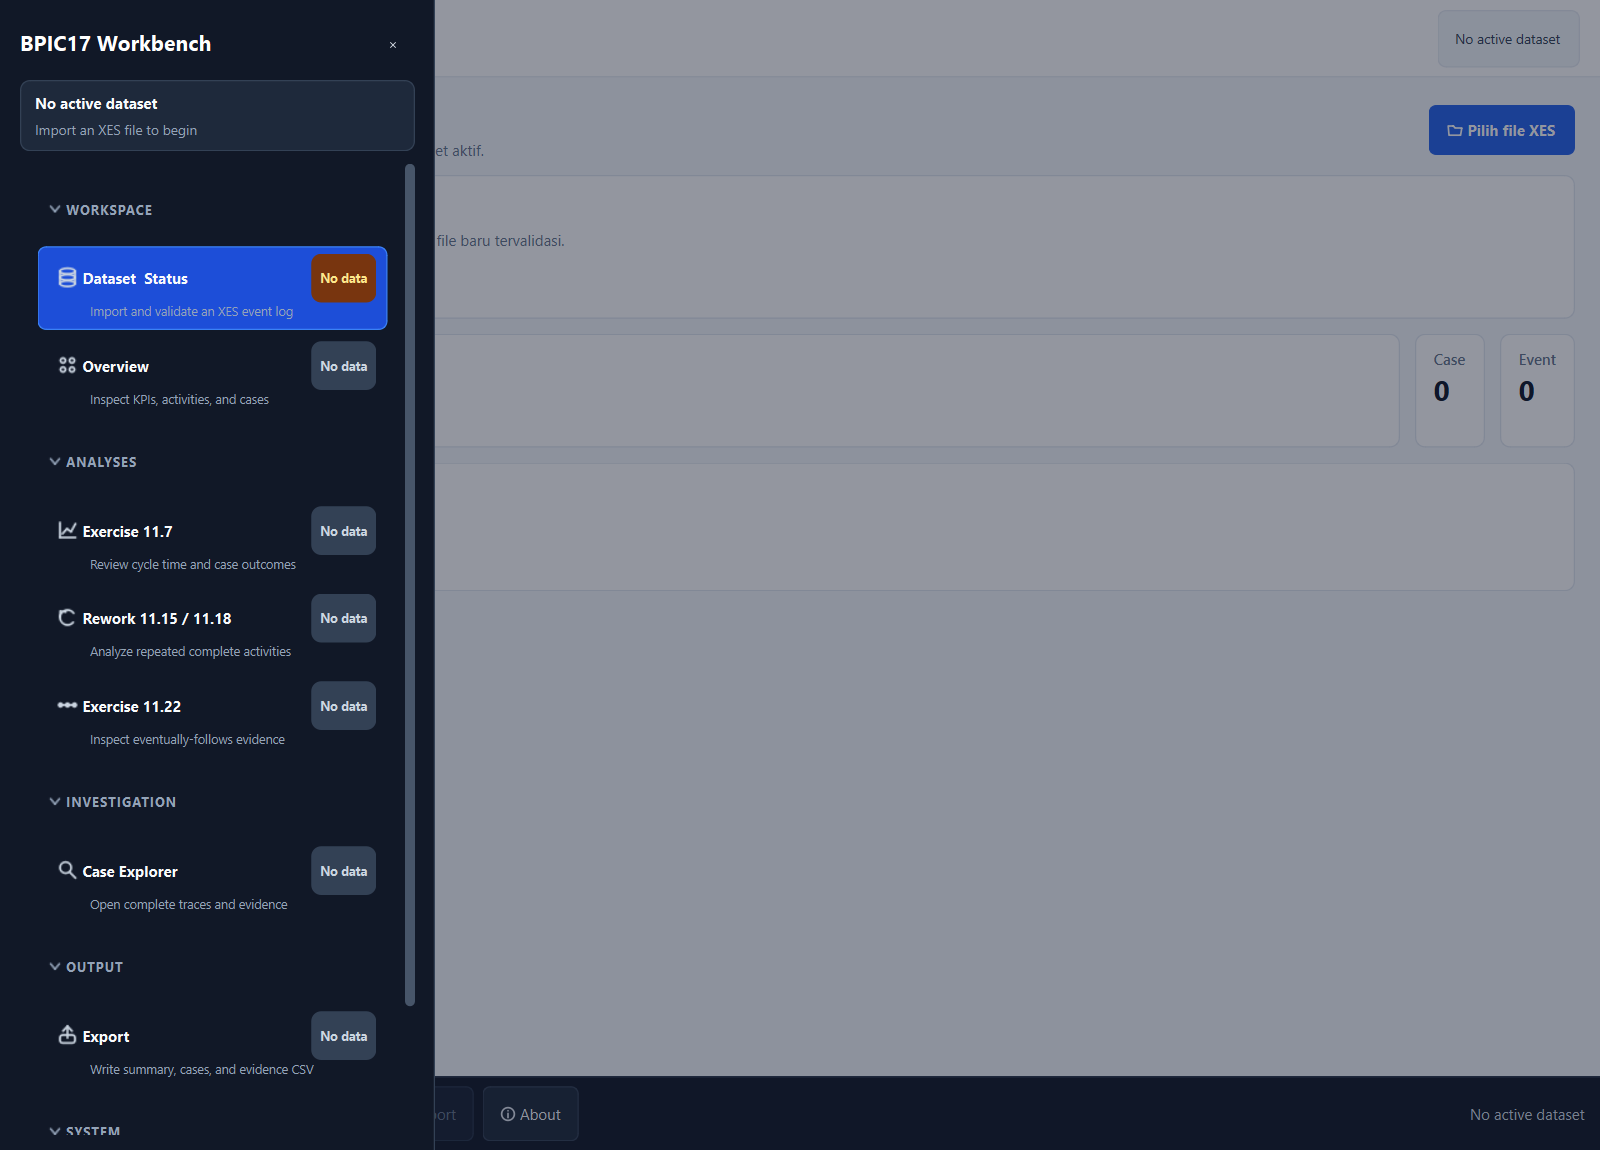
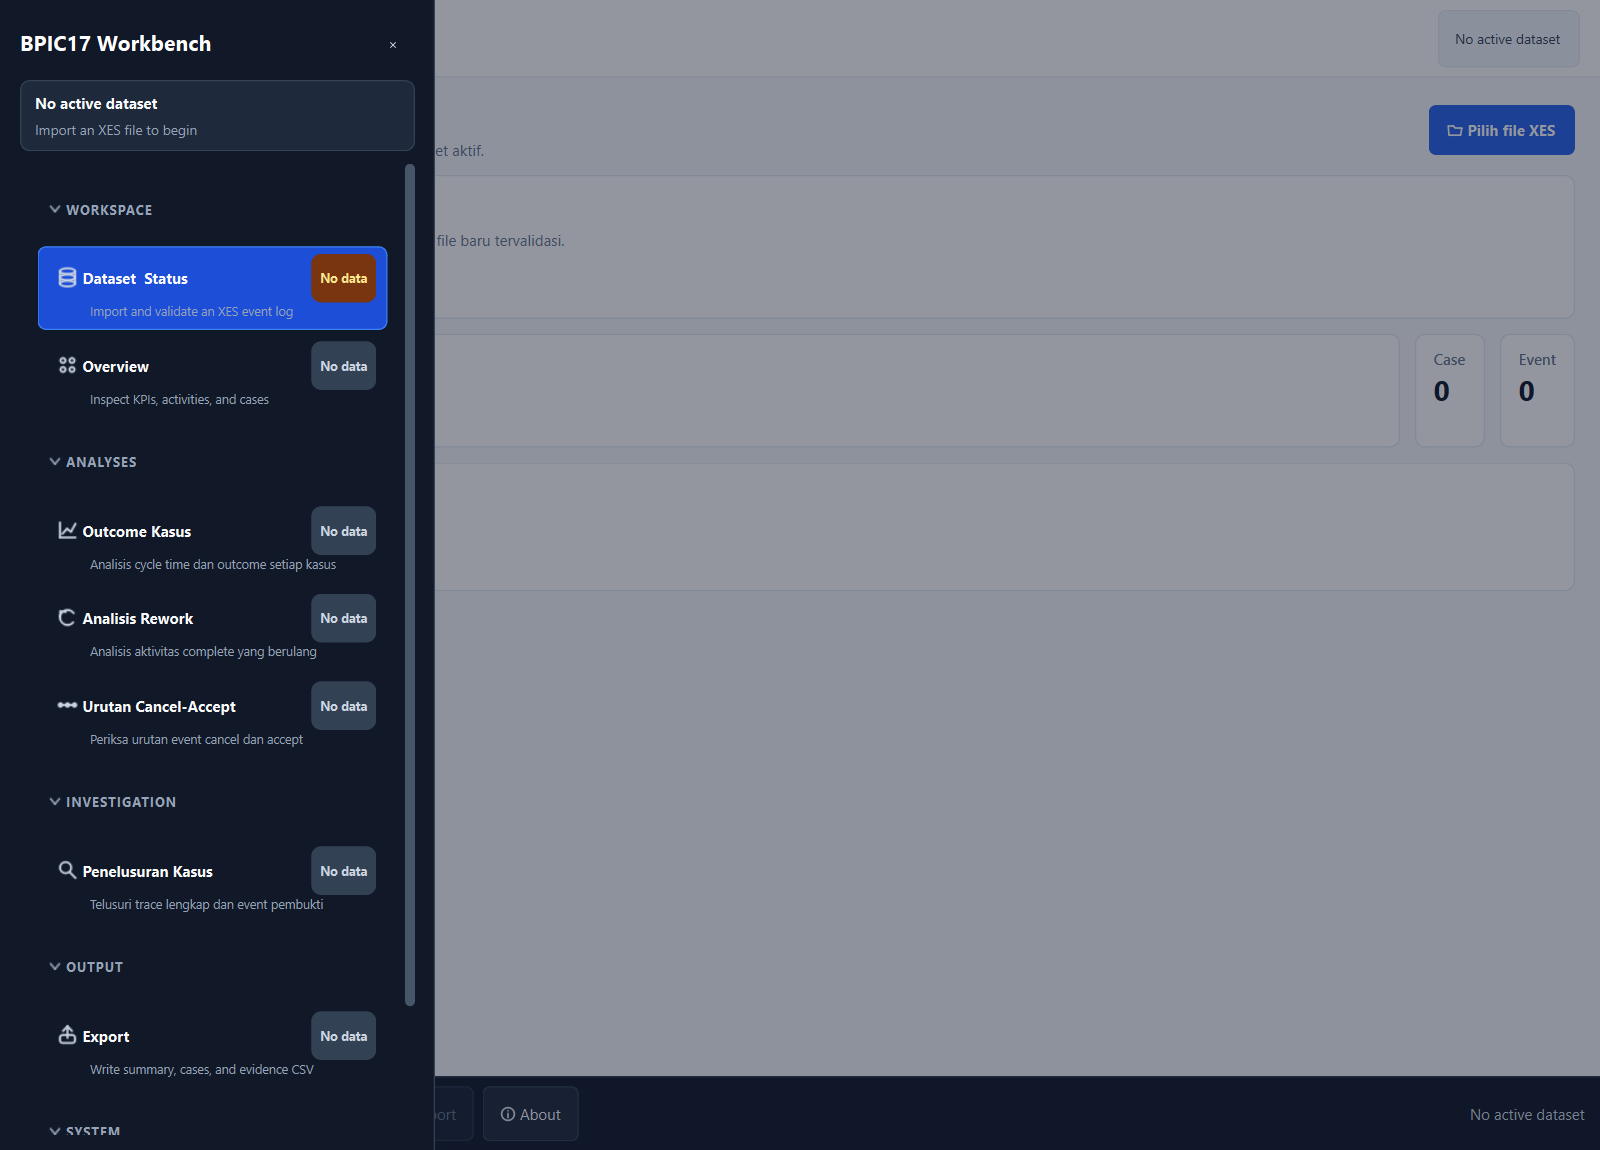
docs(analysis): replace exercise terminology with analysis functions

Changed region(s): [[0.0625, 0.4565, 0.2188, 0.5783], [0.0625, 0.6087, 0.1875, 0.6696], [0.0625, 0.7304, 0.1875, 0.7913]]

diff --git a/USERFLOW.md b/USERFLOW.md
@@ -4,7 +4,7 @@
 
 Dokumen ini menjelaskan alur pengguna dan perubahan state aplikasi mulai dari membuka aplikasi, mengimpor XES, menjalankan delapan analisis, menelusuri evidence, hingga mengekspor CSV.
 
-Aktor utama adalah pengguna yang memiliki event log XES lokal dan ingin menjalankan analisis BPIC17 tanpa menyunting kode atau membaca ulang dataset untuk setiap exercise.
+Aktor utama adalah pengguna yang memiliki event log XES lokal dan ingin menjalankan analisis BPIC17 tanpa menyunting kode atau membaca ulang dataset untuk setiap analisis.
 
 ## 2. Titik masuk dan prasyarat
 
@@ -24,9 +24,9 @@ Saat aplikasi dibuka, delapan workspace tersedia melalui navigation drawer overl
 
 1. Dataset & Status
 2. Overview
-3. Exercise 11.7
-4. Rework 11.15 & 11.18
-5. Exercise 11.22
+3. Outcome Kasus
+4. Analisis Rework
+5. Urutan Cancel-Accept
 6. Case Explorer
 7. Export
 8. About
@@ -60,17 +60,17 @@ flowchart TD
         InspectOverview --> OverviewCase["Kontrol: pilih case lalu Buka di Case Explorer"]
     end
 
-    subgraph Exercise117Area["Sidebar / ANALYSES: Exercise 11.7"]
-        Store --> Nav117["Navigasi: pilih Exercise 11.7"]
-        Nav117 --> Run117["Kontrol: Jalankan 11.7 A-E"]
+    subgraph OutcomeArea["Sidebar / ANALYSES: Outcome Kasus"]
+        Store --> Nav117["Navigasi: pilih Outcome Kasus"]
+        Nav117 --> Run117["Kontrol: Jalankan Analisis"]
         Run117 --> View117["Panel: pilih hasil, cari case, periksa rule"]
         View117 --> Open117["Kontrol: Buka kasus"]
     end
 
-    subgraph ReworkArea["Sidebar / ANALYSES: Rework 11.15 & 11.18"]
+    subgraph ReworkArea["Sidebar / ANALYSES: Analisis Rework"]
         Store --> ReworkDecision{"Target fraud tepat satu?"}
         ReworkDecision -- Ya --> ReworkAuto["Sistem: jalankan 11.15 dan 11.18 otomatis"]
-        ReworkDecision -- Tidak --> NavRework["Navigasi: pilih Rework 11.15 & 11.18"]
+        ReworkDecision -- Tidak --> NavRework["Navigasi: pilih Analisis Rework"]
         NavRework --> ReworkManual["Kontrol: pilih/ketik aktivitas target dan lifecycle"]
         ReworkManual --> RunRework["Kontrol: Jalankan / jalankan ulang"]
         ReworkAuto --> ViewRework["Panel: pilih case dan evidence"]
@@ -78,9 +78,9 @@ flowchart TD
         ViewRework --> OpenRework["Kontrol: Buka di Case Explorer"]
     end
 
-    subgraph Exercise1122Area["Sidebar / ANALYSES: Exercise 11.22"]
-        Store --> Nav1122["Navigasi: pilih Exercise 11.22"]
-        Nav1122 --> Run1122["Kontrol: Jalankan 11.22"]
+    subgraph SequenceArea["Sidebar / ANALYSES: Urutan Cancel-Accept"]
+        Store --> Nav1122["Navigasi: pilih Urutan Cancel-Accept"]
+        Nav1122 --> Run1122["Kontrol: Jalankan Analisis"]
         Run1122 --> View1122["Panel: cari dan pilih pasangan cancel-accept"]
         View1122 --> Open1122["Kontrol: Buka di Case Explorer"]
     end
@@ -153,9 +153,9 @@ flowchart TD
 |---|---|---|
 | Memilih atau mengganti XES | Tombol menu > drawer `Dataset & Status` atau action bar `Import XES` | `Pilih file XES` |
 | Memeriksa KPI dan daftar case | Tombol menu > drawer `Overview` | Cari/pilih case, lalu `Buka di Case Explorer` |
-| Menjalankan 11.7 A–E | Tombol menu > drawer `Exercise 11.7` | `Jalankan 11.7 A-E`, pilih hasil, lalu `Buka kasus` |
-| Menjalankan 11.15/11.18 | Tombol menu > drawer `Rework 11.15 & 11.18` | Pilih aktivitas/lifecycle, lalu `Jalankan analisis` |
-| Menjalankan 11.22 | Tombol menu > drawer `Exercise 11.22` | `Jalankan 11.22`, pilih pasangan, lalu `Buka di Case Explorer` |
+| Menganalisis outcome kasus | Tombol menu > drawer `Outcome Kasus` | `Jalankan Analisis`, pilih hasil, lalu `Buka kasus` |
+| Menganalisis rework | Tombol menu > drawer `Analisis Rework` | Pilih aktivitas/lifecycle, lalu `Jalankan analisis` |
+| Menganalisis urutan cancel-accept | Tombol menu > drawer `Urutan Cancel-Accept` | `Jalankan Analisis`, pilih pasangan, lalu `Buka di Case Explorer` |
 | Menelusuri trace secara langsung | Tombol menu > drawer `Case Explorer` | Ketik atau pilih case ID |
 | Mengekspor hasil | Tombol menu > drawer `Export` atau action bar `Export` | `Pilih direktori`, lalu `Export CSV` |
 | Menghapus hasil tanpa membuang dataset | Action bar `Reset` atau halaman Export | `Reset hasil analisis` |
@@ -169,7 +169,7 @@ flowchart TD
 | `Ctrl+B` | Buka atau tutup navigation drawer |
 | `Escape` | Tutup navigation drawer bila sedang terbuka |
 | `Ctrl+O` | Import XES |
-| `Ctrl+1` … `Ctrl+8` | Dataset, Overview, 11.7, Rework, 11.22, Explorer, Export, About |
+| `Ctrl+1` … `Ctrl+8` | Dataset, Overview, Outcome, Rework, Urutan Event, Explorer, Export, About |
 | `Alt+Left` / `Alt+Right` | Back / Forward pada navigation history |
 | `Ctrl+R` | Rerun seluruh analisis dari EventStore aktif |
 | `F1` | About |
@@ -184,7 +184,7 @@ flowchart TD
 4. Setelah file dipilih, aplikasi segera:
    - menaikkan generation ID;
    - menghapus referensi dataset sebelumnya;
-   - membersihkan Overview, hasil exercise, Case Explorer, Export, dan metadata About;
+   - membersihkan Overview, hasil analisis, Case Explorer, Export, dan metadata About;
    - menampilkan progress indeterminate;
    - menonaktifkan tombol pilih file selama job aktif.
 5. PM4Py membaca dan memvalidasi file di worker thread.
@@ -226,14 +226,14 @@ Overview berjalan otomatis setelah `EventStore` aktif dan menampilkan:
 - daftar durasi case;
 - metadata dan warning dataset.
 
-Pengguna dapat mencari case dan membukanya di Case Explorer. Pembukaan dari Overview tidak membawa highlight khusus karena Overview bukan filter evidence exercise.
+Pengguna dapat mencari case dan membukanya di Case Explorer. Pembukaan dari Overview tidak membawa highlight khusus karena Overview bukan filter evidence analisis.
 
-## 6. Exercise 11.7 A–E
+## 6. Outcome Kasus
 
-1. Pengguna membuka drawer lalu memilih `Exercise 11.7`, atau menekan `Ctrl+3`.
-2. Pengguna menekan `Jalankan 11.7 A-E`.
+1. Pengguna membuka drawer lalu memilih `Outcome Kasus`, atau menekan `Ctrl+3`.
+2. Pengguna menekan `Jalankan Analisis`.
 3. Lima hasil dihitung dari `EventStore` aktif di worker thread.
-4. Tabel menampilkan exercise, deskripsi, count, mean days, dan denominator.
+4. Tabel menampilkan kode analisis, metrik, count, mean days, dan denominator.
 5. Pengguna memilih salah satu hasil untuk melihat rule dan case IDs.
 6. Pengguna dapat mencari case, memilih satu baris, lalu menekan `Buka kasus`.
 7. Case Explorer dibuka dengan event evidence yang sesuai disorot.
@@ -246,7 +246,7 @@ Hasil yang dihasilkan:
 - 11.7 D: case yang mengandung `O_Refused`;
 - 11.7 E: case dengan event terakhir `O_Cancelled` menurut `_trace_pos`.
 
-## 7. Exercise 11.15 dan 11.18
+## 7. Analisis Rework
 
 Setelah dataset aktif, aplikasi mencari aktivitas yang memuat kata `fraud`.
 
@@ -271,10 +271,10 @@ Jika kandidat lebih dari satu atau tidak ada:
 
 Pengguna dapat memilih case dan membuka seluruh evidence terkait di Case Explorer.
 
-## 8. Exercise 11.22
+## 8. Urutan Cancel-Accept
 
-1. Pengguna membuka drawer lalu memilih `Exercise 11.22`, atau menekan `Ctrl+5`.
-2. Pengguna menekan `Jalankan 11.22`.
+1. Pengguna membuka drawer lalu memilih `Urutan Cancel-Accept`, atau menekan `Ctrl+5`.
+2. Pengguna menekan `Jalankan Analisis`.
 3. Aplikasi mencari case yang memiliki `O_Cancelled` di posisi `i` dan `O_Accepted` di posisi `j`, dengan `i < j`.
 4. Panel menampilkan count, denominator, percentage, rule, notes, dan satu pasangan evidence per case.
 5. Pengguna dapat mencari dan memilih pasangan evidence.
@@ -283,7 +283,7 @@ Pengguna dapat memilih case dan membuka seluruh evidence terkait di Case Explore
 
 ## 9. Case Explorer
 
-Case Explorer dapat dibuka langsung atau melalui action case dari Overview dan panel exercise.
+Case Explorer dapat dibuka langsung atau melalui action case dari Overview dan panel analisis.
 
 Alurnya:
 
@@ -303,21 +303,21 @@ Export memakai objek `AnalysisResult` yang sama dengan panel. Tidak ada perhitun
 ### Syarat tombol Export aktif
 
 - Dataset masih aktif.
-- Delapan exercise ID tersedia tepat satu kali:
+- Delapan kode analisis tersedia tepat satu kali:
   - 11.7 A–E;
   - 11.15;
   - 11.18;
   - 11.22.
 - Direktori output telah dipilih.
 
-Status `unavailable` tetap dianggap sebagai hasil exercise yang lengkap apabila memiliki exercise ID, denominator, status, dan alasan. Nilai tersebut diekspor sebagai unavailable, bukan diubah menjadi hasil nol valid.
+Status `unavailable` tetap dianggap sebagai hasil analisis yang lengkap apabila memiliki kode analisis, denominator, status, dan alasan. Nilai tersebut diekspor sebagai unavailable, bukan diubah menjadi hasil nol valid.
 
 ### Keluaran
 
 | File | Isi |
 |---|---|
-| `summary.csv` | Delapan exercise, rule, count, denominator, mean, percentage, status, dan notes |
-| `selected_cases.csv` | Exercise ID dan case ID terpilih |
+| `summary.csv` | Delapan analisis, rule, count, denominator, mean, percentage, status, dan notes |
+| `selected_cases.csv` | Kode analisis dan case ID terpilih |
 | `evidence.csv` | Union evidence columns, termasuk row ID, posisi, timestamp, lifecycle/resource, atau pasangan cancel–accept |
 
 Export berjalan di worker thread. Jika permission atau path bermasalah, hasil analisis tetap tersedia sehingga pengguna dapat memilih direktori lain dan mencoba kembali. Membatalkan dialog direktori tidak dianggap sebagai error dan tidak menghapus pilihan sebelumnya.

diff --git a/docs/laporan.md b/docs/laporan.md
@@ -19,21 +19,21 @@ Aplikasi ini bertujuan menyediakan alur desktop yang dapat direproduksi untuk me
 
 Diisi oleh A1. Jelaskan validasi atribut, urutan trace, EventStore, timezone, dan metadata.
 
-## 4. Exercise 11.7 A-E
+## 4. Outcome Kasus
 
 Diisi oleh A2. Sertakan formula cycle time, contains vs endpoint, hasil aktual, dan evidence case.
 
-## 5. Exercise 11.15 dan 11.18
+## 5. Analisis Rework
 
 Diisi oleh A3. Sertakan lifecycle complete, resource valid, hasil aktual, dan evidence event.
 
-## 6. Exercise 11.22 dan Case Explorer
+## 6. Urutan Cancel-Accept dan Case Explorer
 
 Diisi oleh A4. Sertakan eventually-follows, numerator/denominator, persentase, dan pasangan event `i < j`.
 
 ## 7. GUI, Export, dan Integrasi
 
-`MainWindow` menyatukan delapan area: Dataset & Status, Overview, Exercise 11.7, Rework 11.15/11.18, Exercise 11.22, Case Explorer, Export, dan About. Navigasi menggunakan full-height overlay drawer dengan backdrop, tombol close, `Escape`, shortcut, dan grup collapsible. Setiap panel memakai page hierarchy, card, metrik, tabel, pencarian, serta vector icon yang digambar Qt tanpa emoji atau ketergantungan font simbol. Satu `EventStore` aktif didistribusikan ke semua panel. Pergantian atau kegagalan dataset langsung menghapus hasil, evidence, metadata export, dan pilihan case sebelumnya.
+`MainWindow` menyatukan delapan area: Dataset & Status, Overview, Outcome Kasus, Analisis Rework, Urutan Cancel-Accept, Penelusuran Kasus, Export, dan About. Navigasi menggunakan full-height overlay drawer dengan backdrop, tombol close, `Escape`, shortcut, dan grup collapsible. Setiap panel memakai page hierarchy, card, metrik, tabel, pencarian, serta vector icon yang digambar Qt tanpa emoji atau ketergantungan font simbol. Satu `EventStore` aktif didistribusikan ke semua panel. Pergantian atau kegagalan dataset langsung menghapus hasil, evidence, metadata export, dan pilihan case sebelumnya.
 
 Pekerjaan import, analisis, serta export dijalankan oleh `WorkerManager` menggunakan `QObject` dan `QThread`. Callback result/error diteruskan kembali ke GUI thread. Setiap panel memakai generation ID sehingga hasil job lama tidak dapat masuk setelah reset atau dataset switch. Progress yang tidak memiliki ukuran numerik ditampilkan sebagai indikator indeterminate.
 
@@ -43,7 +43,7 @@ Reset menghapus hasil turunan dan Case Explorer tanpa menghapus `EventStore`. Re
 
 ## 8. Pengujian
 
-Pada 21 November 2026, seluruh suite terkini berjalan dua kali berturut-turut dengan hasil `148 passed, 1 warning`. Integration test memverifikasi import XES sintetis, Overview, delapan hasil, evidence Case Explorer, tiga CSV, reset, rerun tanpa parse ulang, invalid dataset reset, dan penolakan callback dataset lama. Navigation test memverifikasi overlay drawer, backdrop, close/Escape, grup collapsible, delapan workspace, history, shortcut, status badge, breadcrumb, dan global action bar. UI component test memverifikasi vector icon dan kontrak reusable card. Clean-install baseline A5 sebelum navigation shell pada virtual environment Python 3.13 baru menghasilkan `136 passed, 1 warning` dalam 12,70 detik.
+Pada 21 November 2026, seluruh suite terkini berjalan dengan hasil `149 passed, 1 warning`. Integration test memverifikasi import XES sintetis, Overview, delapan hasil, evidence Case Explorer, tiga CSV, reset, rerun tanpa parse ulang, invalid dataset reset, dan penolakan callback dataset lama. Navigation test memverifikasi overlay drawer, backdrop, close/Escape, grup collapsible, delapan workspace, history, shortcut, status badge, breadcrumb, dan global action bar. UI component test memverifikasi vector icon, kontrak reusable card, dan penggunaan terminologi analisis berbasis fungsi. Clean-install baseline A5 sebelum navigation shell pada virtual environment Python 3.13 baru menghasilkan `136 passed, 1 warning` dalam 12,70 detik.
 
 Warning berasal dari dependency opsional PM4Py `r4pm`; fallback `rustxes` tetap dapat membaca XES. Detail perintah dan batas verifikasi dicatat dalam `docs/qa_a5.md`. Pengujian terhadap BPIC17 asli belum dilakukan karena file tidak tersedia di repository.
 

diff --git a/docs/qa_a5.md b/docs/qa_a5.md
@@ -20,7 +20,7 @@
 | Export GUI + smoke | export panel, application smoke | 13 passed |
 | Workspace navigation dan UI components | overlay drawer, backdrop, Escape, collapsible groups, history, shortcuts, badges, cards, dan vector icons | 12 passed |
 | Integration | import → 8 hasil → evidence → CSV → reset/rerun | 2 passed, 1 warning |
-| Regression terkini | `python manage.py test -q` | 148 passed, 1 warning; dua run final berturut-turut 9,83 dan 9,10 detik |
+| Regression terkini | `python manage.py test -q` | 149 passed, 1 warning; run final 9,43 detik |
 | Clean install baseline A5 | venv Python 3.13 baru + `pip install -r requirements.txt` + full suite sebelum navigation shell | 136 passed, 1 warning; 12,70 detik |
 
 Warning tunggal berasal dari PM4Py karena `r4pm` tidak dipasang. Pesan PM4Py menyatakan `rustxes` tetap didukung sebagai fallback; import XES pada test berhasil.
@@ -31,7 +31,7 @@ Warning tunggal berasal dari PM4Py karena `r4pm` tidak dipasang. Pesan PM4Py men
 - Dataset switch membatalkan pengaruh callback loader lama.
 - Reset dan rerun mempertahankan identitas `EventStore` serta tidak memanggil parser ulang.
 - Invalid dataset menghapus Overview, hasil A2–A4, Explorer, Export, dan About metadata lama.
-- Export ditolak bila delapan hasil belum lengkap atau terdapat exercise duplikat.
+- Export ditolak bila delapan hasil belum lengkap atau terdapat kode analisis duplikat.
 - Status `unavailable` mengekspor reason dan denominator tanpa menampilkan count placeholder sebagai jawaban valid.
 - Direktori dengan spasi, cancel dialog, path bukan direktori, dan error permission sintetis ditangani.
 - Tiga CSV dibaca kembali dengan pandas dan evidence identifier tetap tersedia.
@@ -42,7 +42,7 @@ Warning tunggal berasal dari PM4Py karena `r4pm` tidak dipasang. Pesan PM4Py men
 
 ## Batas verifikasi dan handoff
 
-- File BPIC17 asli tidak ada di `data/`; angka delapan exercise, waktu import penuh, konsumsi memori, hash dataset, dan screenshot data asli belum diverifikasi.
+- File BPIC17 asli tidak ada di `data/`; angka delapan analisis, waktu import penuh, konsumsi memori, hash dataset, dan screenshot data asli belum diverifikasi.
 - Screenshot A5 menggunakan dataset sintetis dan harus diganti atau dilengkapi saat dataset final tersedia.
 - Review silang, rekaman demo, tag final, dan persetujuan jumlah lima anggota tetap memerlukan tindakan tim.
 - Sebelum distribusi, tim perlu meninjau kewajiban lisensi AGPL v3 PM4Py.

diff --git a/docs/pembagian_kontribusi.md b/docs/pembagian_kontribusi.md
@@ -5,8 +5,8 @@ Isi berdasarkan pekerjaan aktual, commit, test, screenshot, bagian laporan, dan 
 | Anggota | Source/fitur | Pengujian | Dokumentasi & screenshot | Review/demo | Bukti commit/PR |
 |---|---|---|---|---|---|
 | A1 | Loader PM4Py, EventStore, metadata, Overview, Dataset panel | Loader, contracts, overview, worker/import state | Screenshot import/Overview masih pending dataset asli | Reviewer silang/demo final pending | `7071929`, PR #6, perbaikan integrasi `28a82b4`/`cd029c3` |
-| A2 | Cycle time, Exercise 11.7 A–E, panel dan evidence case | Core 11.7 dan GUI panel | Bagian laporan/screenshot hasil asli masih pending | Reviewer silang/demo final pending | `a8db794`–`9c0439f`, PR #1, perbaikan `2ef782a` |
-| A3 | Exercise 11.15/11.18, lifecycle/resource evidence, panel | Core rework dan GUI panel | Bagian laporan/screenshot hasil asli masih pending | Reviewer silang/demo final pending | `31b34e0`, PR #2, perbaikan `e69ec1d`/`7a92c5b` |
-| A4 | Exercise 11.22, eventually-follows evidence, Case Explorer | Ordering, sequence panel, explorer | Bagian laporan/screenshot hasil asli masih pending | Reviewer silang/demo final pending | `97c8746`, PR #5, perbaikan integrasi `28a82b4` |
+| A2 | Cycle time, analisis outcome kasus, panel dan evidence case | Core outcome dan GUI panel | Bagian laporan/screenshot hasil asli masih pending | Reviewer silang/demo final pending | `a8db794`–`9c0439f`, PR #1, perbaikan `2ef782a` |
+| A3 | Analisis Repeated Complete dan Same Resource Complete, lifecycle/resource evidence, panel | Core rework dan GUI panel | Bagian laporan/screenshot hasil asli masih pending | Reviewer silang/demo final pending | `31b34e0`, PR #2, perbaikan `e69ec1d`/`7a92c5b` |
+| A4 | Analisis urutan Cancel-Accept, eventually-follows evidence, Case Explorer | Ordering, sequence panel, explorer | Bagian laporan/screenshot hasil asli masih pending | Reviewer silang/demo final pending | `97c8746`, PR #5, perbaikan integrasi `28a82b4` |
 | A5 | Shell terintegrasi, overlay navigation drawer, shared status, Export/About, reset/rerun, packaging | Export, navigation, GUI, integration, stale state, clean-install | README, user flow, laporan §7–§10, `qa_a5.md`, screenshot shell/Export/About sintetis | Review tim dan demo final masih pending | Perubahan A5 masih pada working tree; commit disiapkan setelah review |
 

diff --git a/README.md b/README.md
@@ -60,9 +60,9 @@ Alur penggunaan:
 
 1. Buka `Dataset & Status`, pilih file `.xes` atau `.xes.gz`, lalu tunggu validasi selesai.
 2. Periksa metadata, jumlah case/event, atribut, dan peringatan pada Dataset dan Overview.
-3. Jalankan Exercise 11.7 A–E.
+3. Jalankan analisis Outcome Kasus.
 4. Pilih aktivitas fraud yang tepat pada Rework bila kandidat tidak terdeteksi secara tunggal, lalu jalankan 11.15 dan 11.18.
-5. Jalankan Exercise 11.22.
+5. Jalankan analisis Urutan Cancel-Accept.
 6. Pilih case hasil dan buka Case Explorer untuk melihat trace lengkap serta event yang disorot.
 7. Buka Export, pilih direktori, lalu ekspor setelah delapan hasil tersedia.
 
@@ -86,8 +86,8 @@ Lifecycle atau resource yang tidak cukup untuk membuktikan aturan ditampilkan se
 Export menghasilkan tiga file UTF-8:
 
 - `summary.csv`: delapan hasil, rule, count, denominator, mean, percentage, status, dan notes.
-- `selected_cases.csv`: pasangan exercise dan case terpilih.
-- `evidence.csv`: union kolom evidence, termasuk row ID, posisi, timestamp, lifecycle/resource, atau pasangan cancel–accept sesuai exercise.
+- `selected_cases.csv`: pasangan kode analisis dan case terpilih.
+- `evidence.csv`: union kolom evidence, termasuk row ID, posisi, timestamp, lifecycle/resource, atau pasangan cancel–accept sesuai analisis.
 
 Direktori `exports/` diabaikan Git. Periksa sensitivitas data sebelum membagikan hasil export.
 
